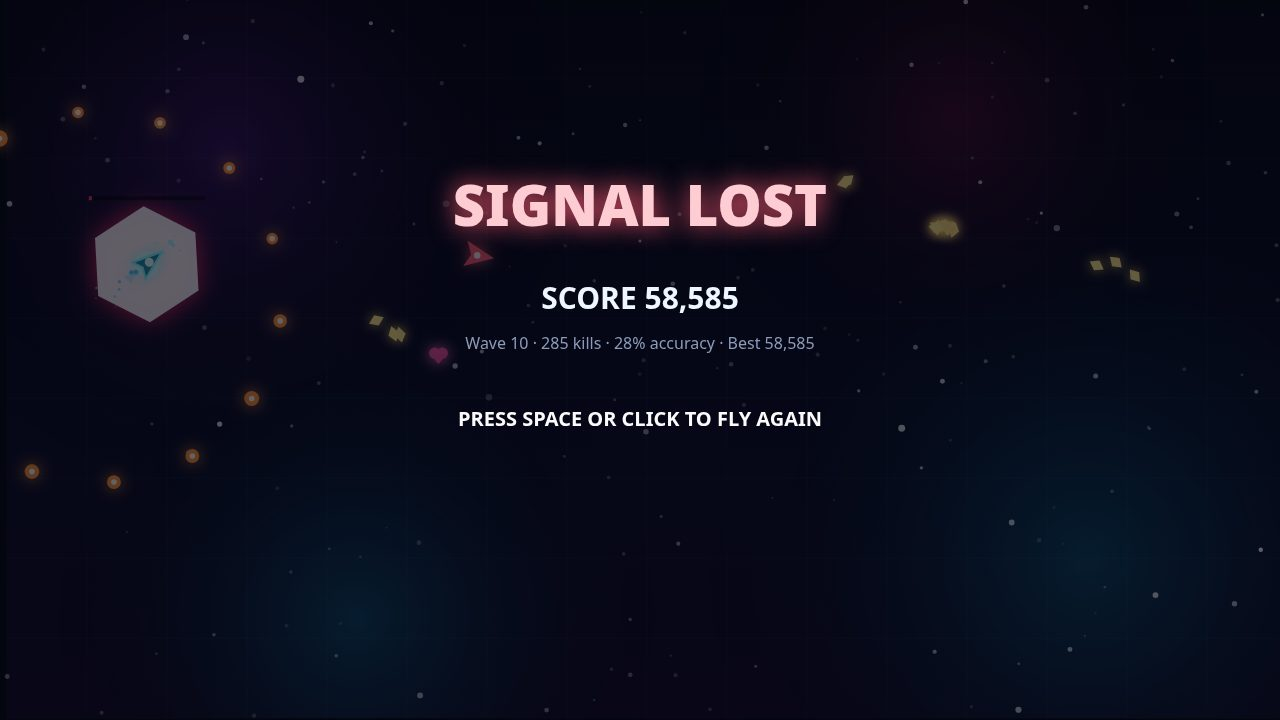
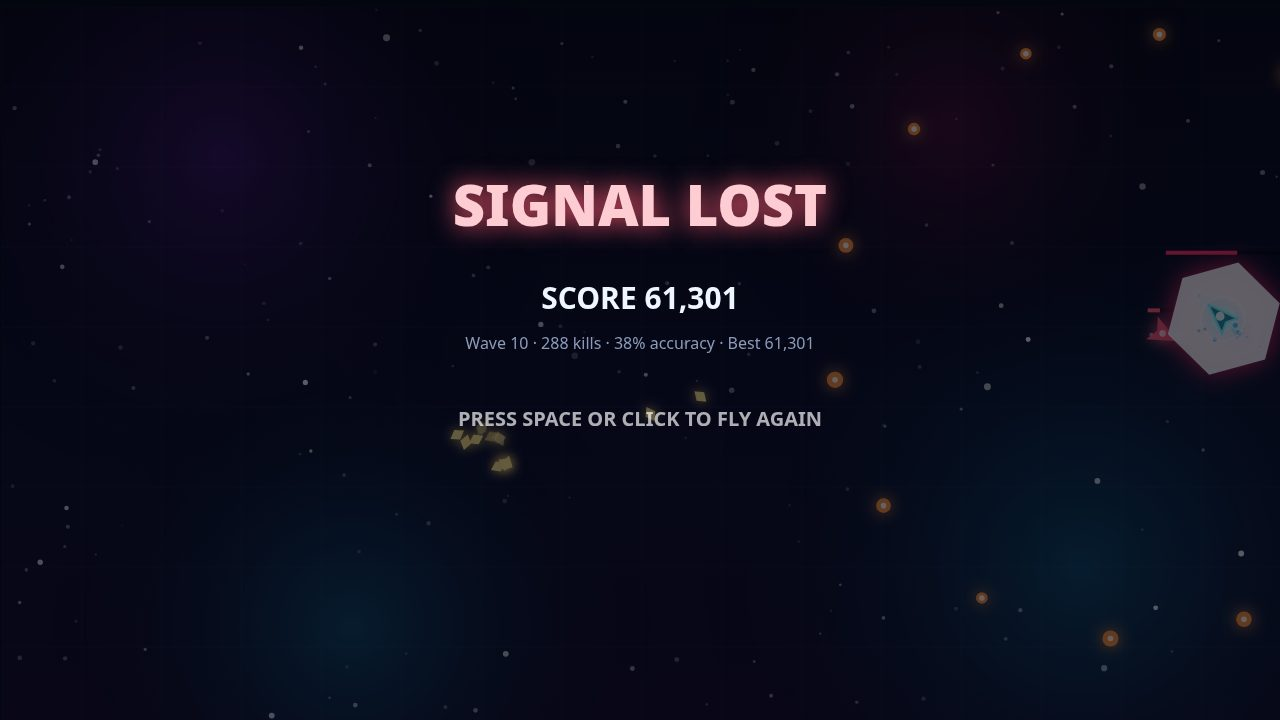
NOVA DRIFT Stage 3: gunner fire-timer fix (telegraph now real), over-scene re-stage, re-shot game-over screen

diff --git a/game/src/shots.js b/game/src/shots.js
@@ -15,6 +15,10 @@ const PLAY_SECONDS = 24;
 // fight in progress rather than a mop-up.
 const BOSS_SECONDS = 8;
 const MAX_PLAY_SECONDS = 240;
+// The game-over scene plays a reckless run until it dies. The cap is
+// generous (900 s) because the run is long; the hull-skip below is what
+// actually guarantees it ends on a real game over instead of outliving it.
+const OVER_SECONDS = 900;
 
 /** Aim at the nearest enemy with a little bullet-travel lead. */
 function nearestEnemy(state) {
@@ -138,9 +142,14 @@ export function stageShot(name, world) {
       }
       return input;
     };
-    for (let i = 0; i < MAX_PLAY_SECONDS / STEP; i += 1) {
+    for (let i = 0; i < OVER_SECONDS / STEP; i += 1) {
       const events = world.step(STEP, reckless(world.state), false);
-      if (events & EVENT_DRAFT && world.state.draft) world.applyUpgrade(world.state.draft[0].id);
+      if (events & EVENT_DRAFT && world.state.draft) {
+        // Skip plating: a run that never takes hull dies on schedule, so
+        // the scene ends on a real game over instead of outliving the cap.
+        const pick = world.state.draft.find((u) => u.id !== 'hull') ?? world.state.draft[0];
+        world.applyUpgrade(pick.id);
+      }
       if (events & EVENT_OVER) break;
     }
     return { screen: SCREEN_OVER, best: world.state.score };

diff --git a/game/src/world.js b/game/src/world.js
@@ -505,10 +505,10 @@ export function createWorld(rng) {
         e.vy += ny * toward * e.speed * 2 * dt;
         e.vx += -ny * Math.sin(e.phase * 1.3) * 40 * dt;
         e.vy += nx * Math.sin(e.phase * 1.3) * 40 * dt;
-        e.fireTimer -= dt;
         // Only count the shot down while the player is in range: an
         // out-of-range gunner used to fire the instant you closed in, with
         // no warning. (The renderer's telegraph reads this same timer.)
+        if (d < 520) e.fireTimer -= dt;
         if (e.fireTimer <= 0 && d < 520) {
           e.fireTimer = 2.3;
           state.orbs.push({
